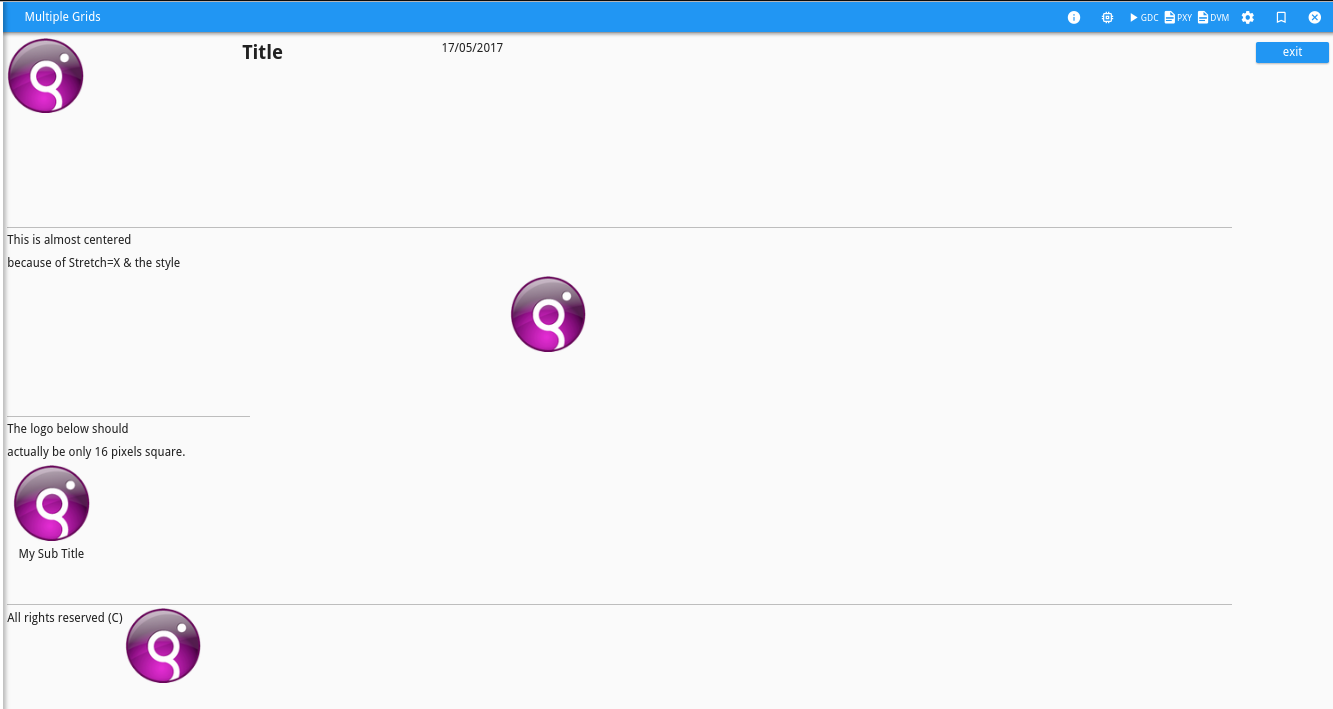
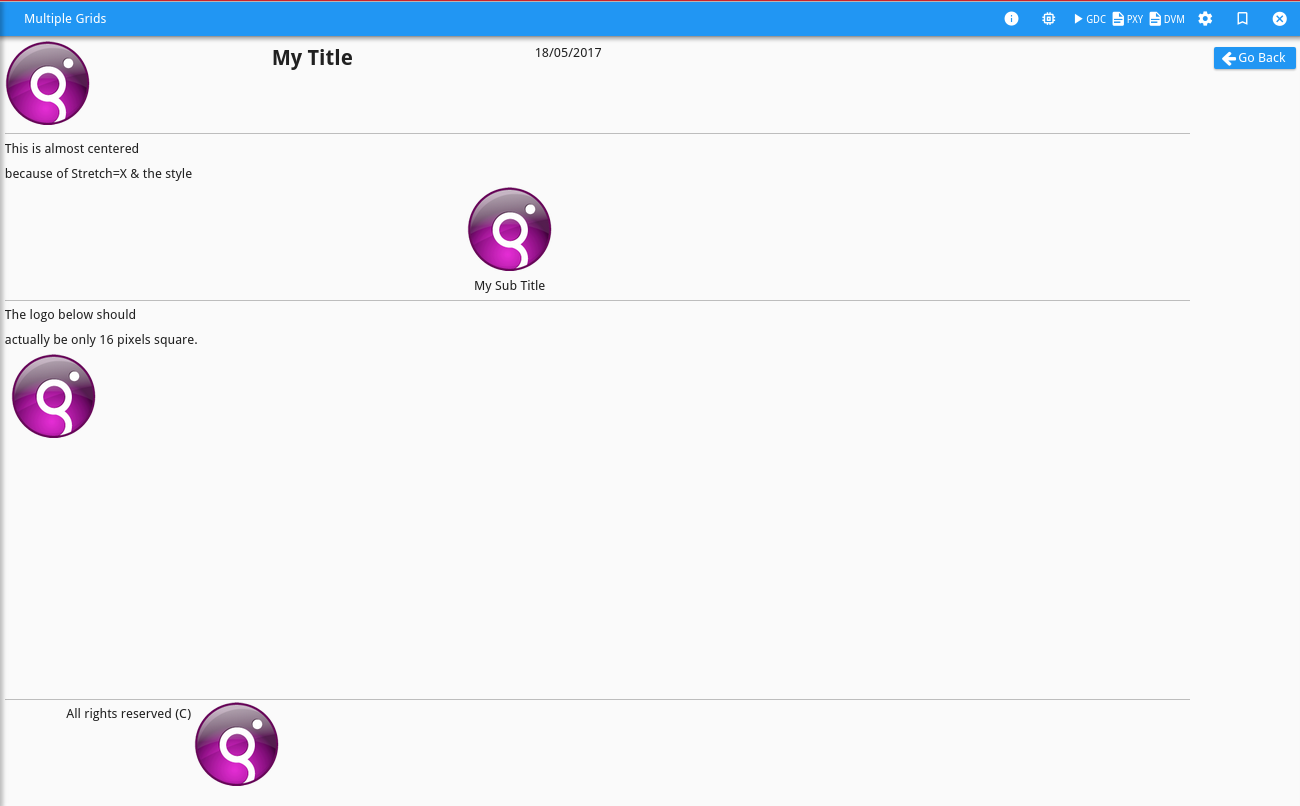
improve multi form

diff --git a/README.md b/README.md
@@ -42,11 +42,16 @@ Various icons and text tests in a a single form.
 
 ![scr1](https://github.com/neilm-fourjs/layout_tests/raw/master/screenshots/layouts_4_multi_gbc.png "Mutli GBC")
 ![scr1](https://github.com/neilm-fourjs/layout_tests/raw/master/screenshots/layouts_4_multi_gdc.png "Mutli GDC")
-![scr1](https://github.com/neilm-fourjs/layout_tests/raw/master/screenshots/layouts_4_multi_gma2.png "Mutli GMA")
 ![scr1](https://github.com/neilm-fourjs/layout_tests/raw/master/screenshots/layouts_4_multi_gma.png "Mutli GMA")
 
-## Padding
+## Padding 1
 Add paddng elements to the form to force buttons to the bottom of the screen.
 ![scr1](https://github.com/neilm-fourjs/layout_tests/raw/master/screenshots/layouts_5_padding_gbc.png "Padding GBC")
 ![scr1](https://github.com/neilm-fourjs/layout_tests/raw/master/screenshots/layouts_5_padding_gdc.png "Padding GDC")
 ![scr1](https://github.com/neilm-fourjs/layout_tests/raw/master/screenshots/layouts_5_padding_gma.png "Padding GMA")
+
+## Padding 2
+Pad form with centered items and bottom of the screen.
+![scr1](https://github.com/neilm-fourjs/layout_tests/raw/master/screenshots/layouts_6_padding_gbc.png "Padding GBC")
+![scr1](https://github.com/neilm-fourjs/layout_tests/raw/master/screenshots/layouts_6_padding_gdc.png "Padding GDC")
+![scr1](https://github.com/neilm-fourjs/layout_tests/raw/master/screenshots/layouts_6_padding_gma.png "Padding GMA")
